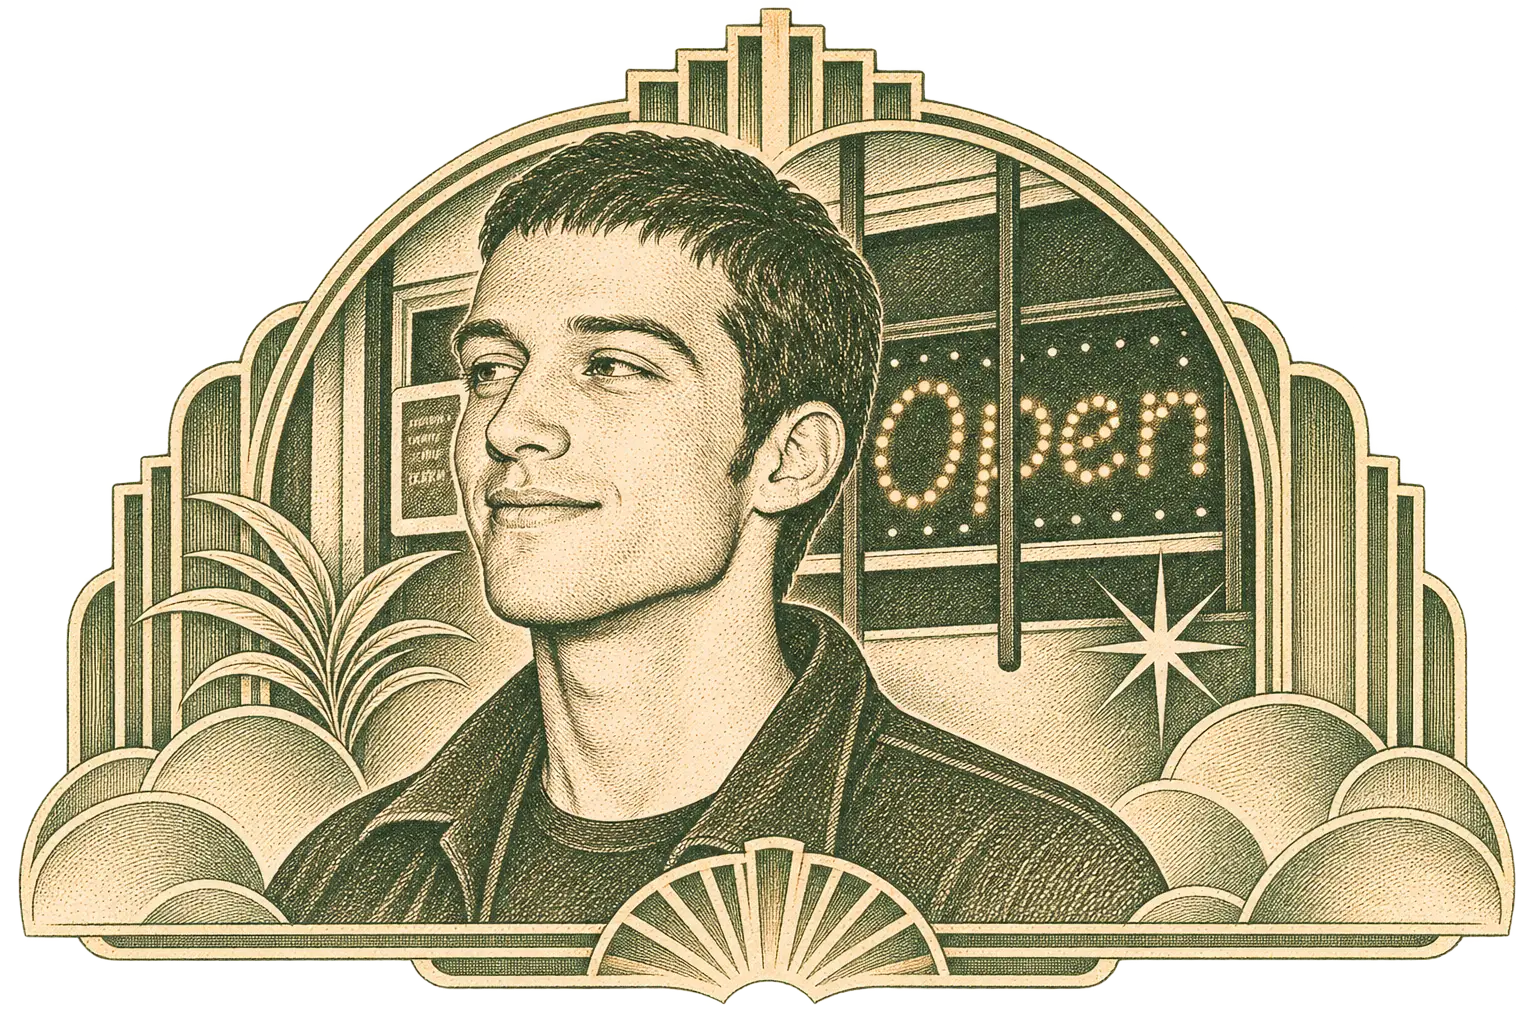
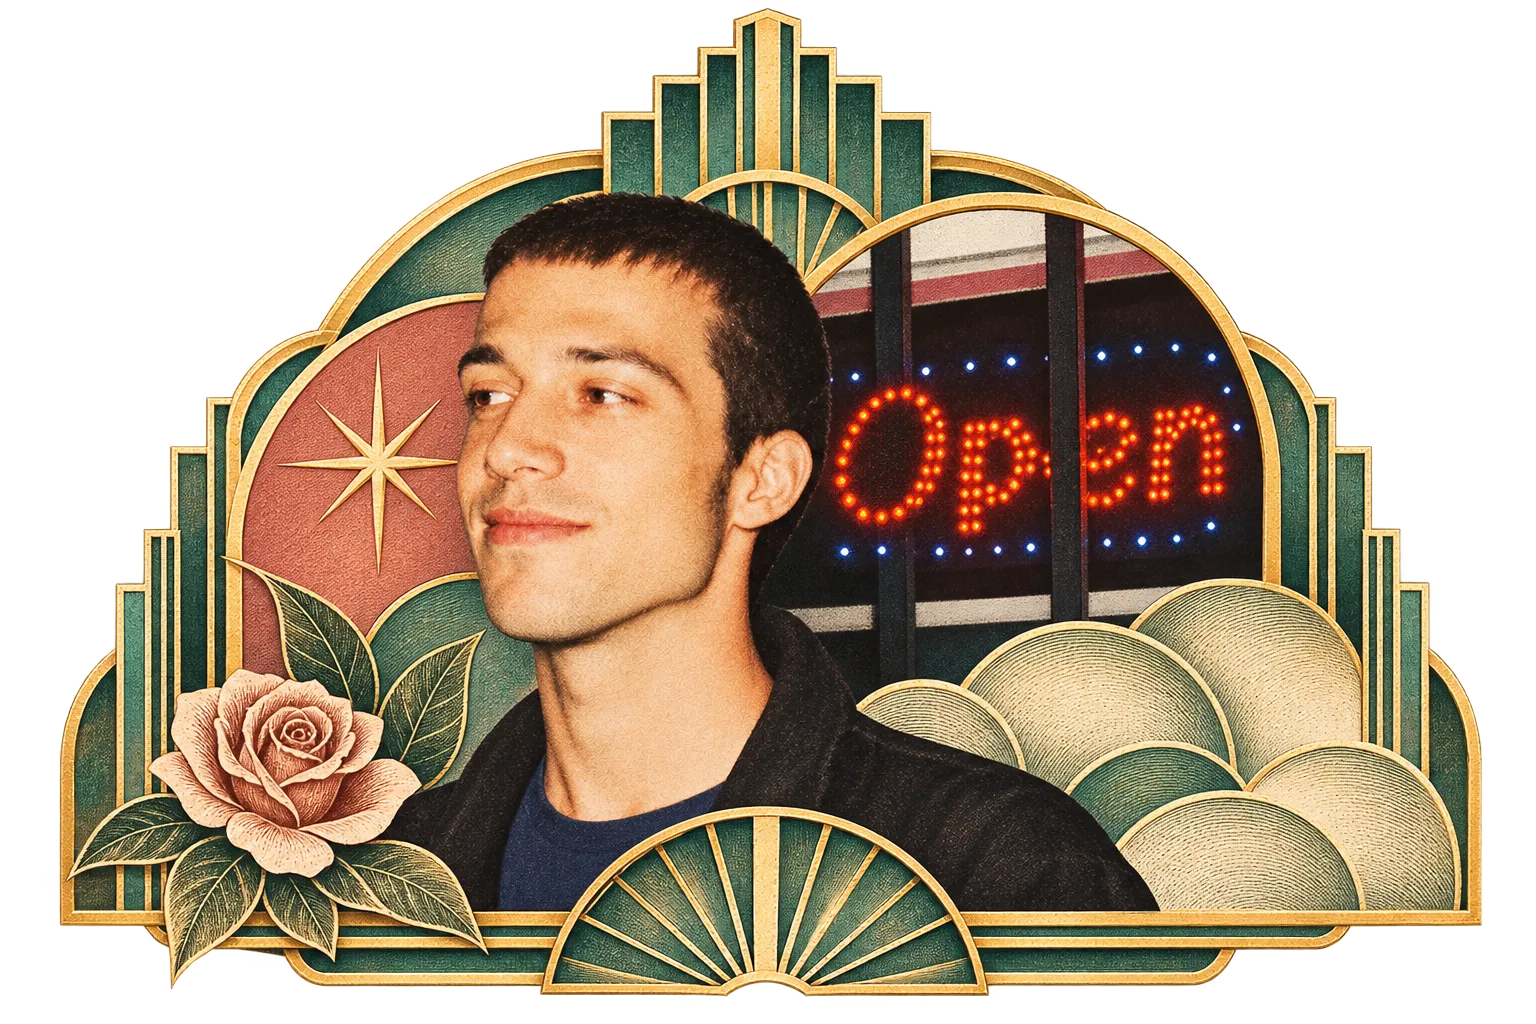
About: new colour portrait

diff --git a/content/about/index.md b/content/about/index.md
@@ -2,7 +2,7 @@
 title: "About"
 description: ""
 portrait: "portrait.webp"
-portraitAlt: "Engraved Art Deco portrait of Logan Eastman in front of a lit Open sign"
+portraitAlt: "Art Deco portrait of Logan Eastman with a rose and a lit Open sign"
 ---
 
 I’m Logan, a writer, strategist and technologist. I’ve worked in branding, thought leadership, and entertainment.
